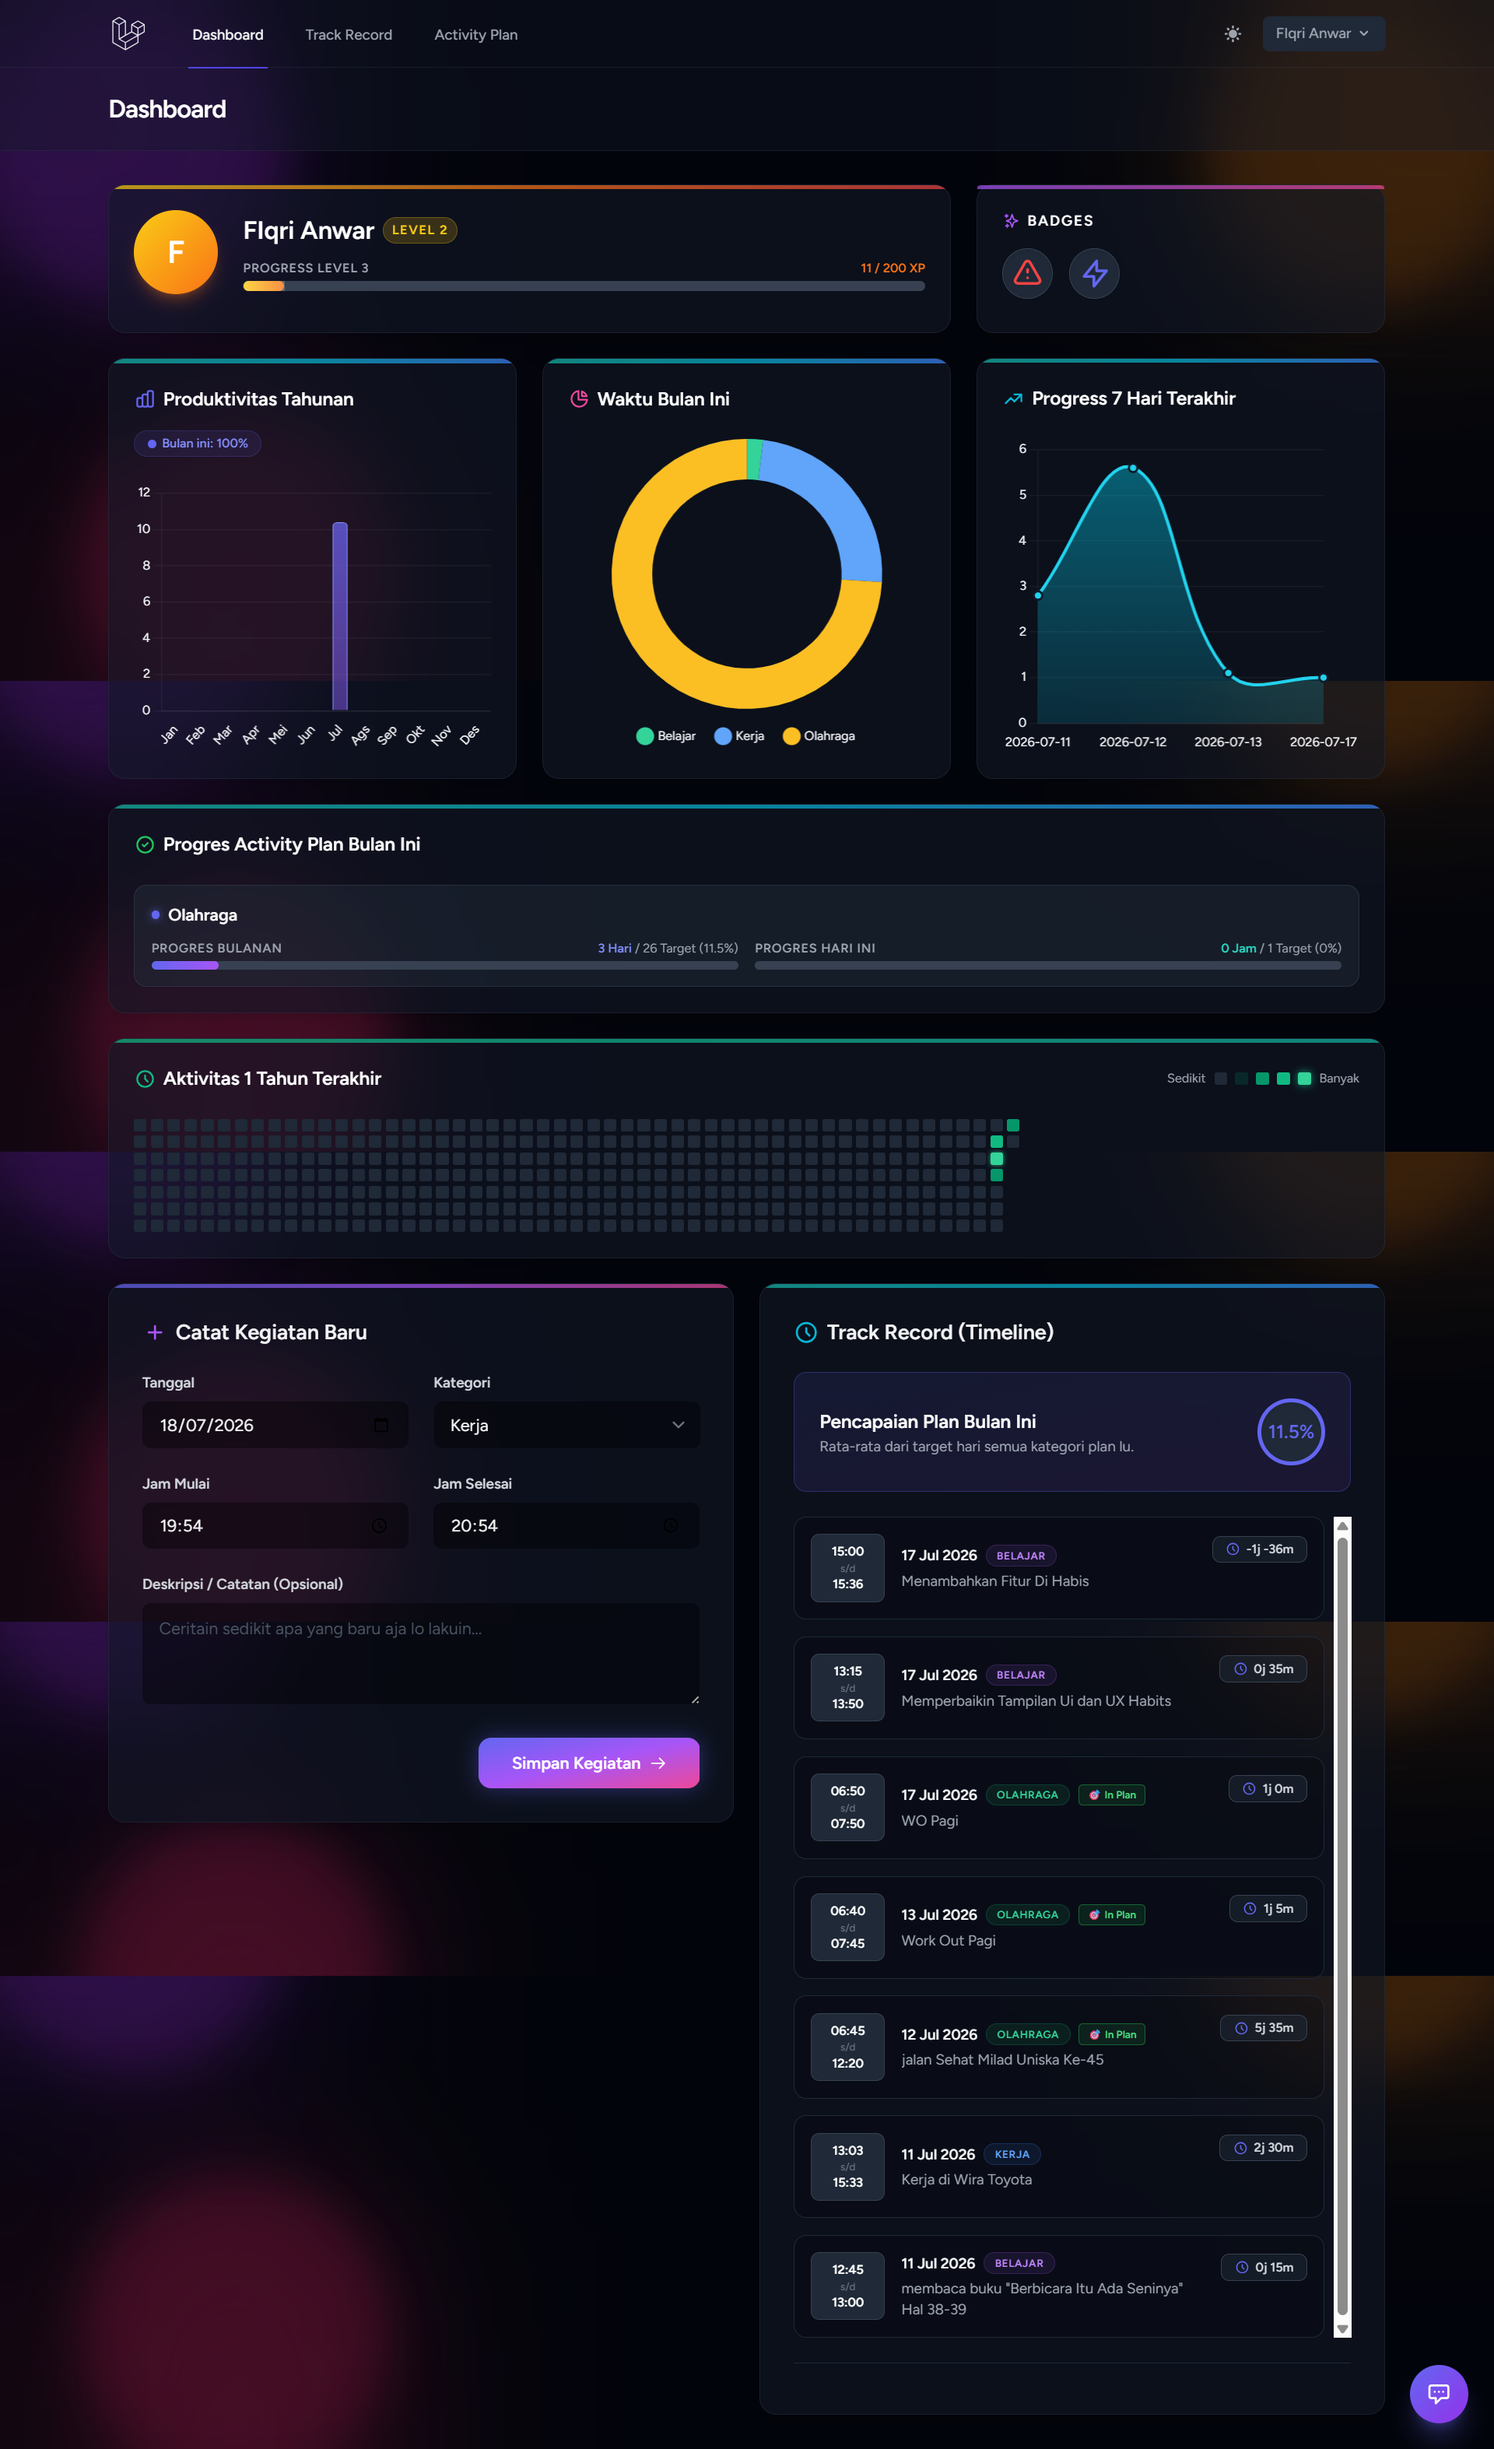
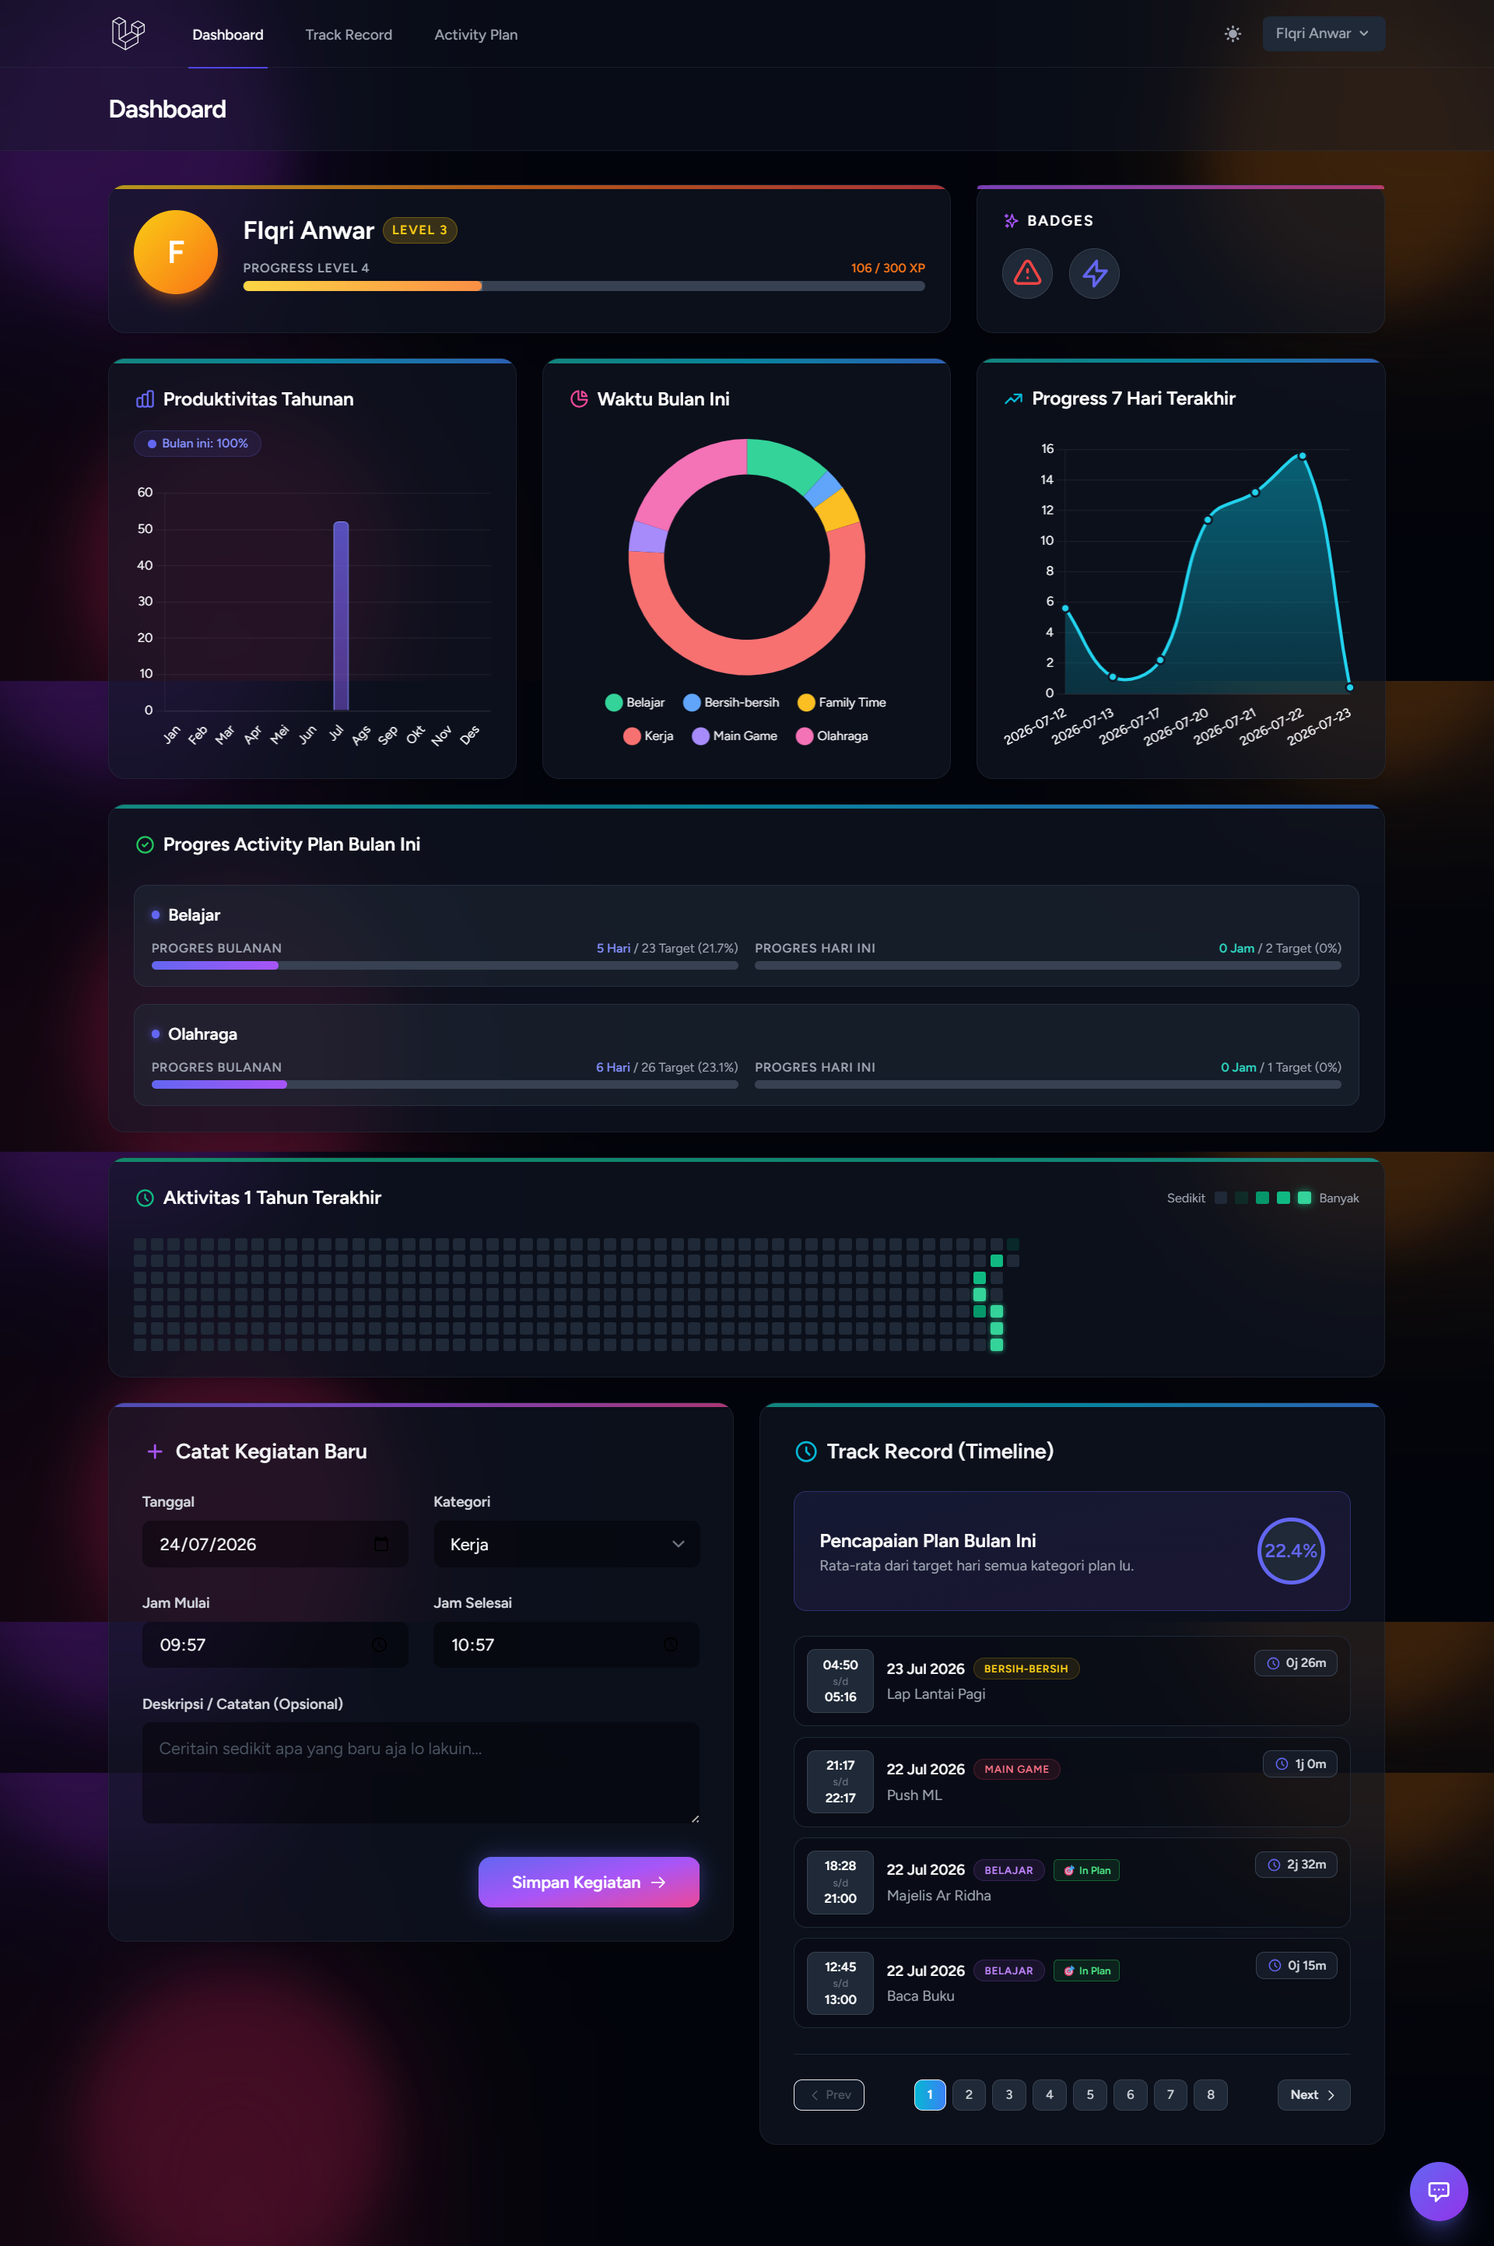
feat: replace timeline scrollbar with pagination buttons (1, 2, etc.) and update dashboard screenshot

diff --git a/resources/views/livewire/custom-pagination.blade.php b/resources/views/livewire/custom-pagination.blade.php
@@ -1,0 +1,58 @@
+@if ($paginator->hasPages())
+    <nav role="navigation" aria-label="Pagination Navigation" class="flex items-center justify-between gap-2 pt-2">
+        <!-- Previous Page Link -->
+        <div>
+            @if ($paginator->onFirstPage())
+                <span class="inline-flex items-center gap-1 px-3 py-1.5 rounded-lg text-xs font-semibold bg-gray-100/50 dark:bg-gray-800/40 text-gray-400 dark:text-gray-600 cursor-not-allowed border border-gray-200/50 dark:border-gray-800/50 opacity-60">
+                    <svg class="w-3.5 h-3.5" fill="none" stroke="currentColor" viewBox="0 0 24 24"><path stroke-linecap="round" stroke-linejoin="round" stroke-width="2" d="M15 19l-7-7 7-7"></path></svg>
+                    Prev
+                </span>
+            @else
+                <button type="button" wire:click="previousPage('{{ $paginator->getPageName() }}')" wire:loading.attr="disabled" class="inline-flex items-center gap-1 px-3 py-1.5 rounded-lg text-xs font-semibold bg-white dark:bg-gray-800 text-gray-700 dark:text-gray-200 hover:bg-gray-100 dark:hover:bg-gray-700 border border-gray-200 dark:border-gray-700 shadow-sm transition-all duration-200 hover:scale-105 active:scale-95">
+                    <svg class="w-3.5 h-3.5" fill="none" stroke="currentColor" viewBox="0 0 24 24"><path stroke-linecap="round" stroke-linejoin="round" stroke-width="2" d="M15 19l-7-7 7-7"></path></svg>
+                    Prev
+                </button>
+            @endif
+        </div>
+
+        <!-- Page Numbers (1, 2, 3...) -->
+        <div class="flex items-center gap-1.5 flex-wrap justify-center">
+            @foreach ($elements as $element)
+                {{-- "Three Dots" Separator --}}
+                @if (is_string($element))
+                    <span class="px-2 py-1 text-xs text-gray-400 dark:text-gray-500 font-medium">{{ $element }}</span>
+                @endif
+
+                {{-- Array Of Links --}}
+                @if (is_array($element))
+                    @foreach ($element as $page => $url)
+                        @if ($page == $paginator->currentPage())
+                            <span class="px-3 py-1.5 rounded-lg text-xs font-bold bg-gradient-to-r from-cyan-500 to-blue-500 text-white shadow-md shadow-cyan-500/20 border border-cyan-400/30">
+                                {{ $page }}
+                            </span>
+                        @else
+                            <button type="button" wire:click="gotoPage({{ $page }}, '{{ $paginator->getPageName() }}')" wire:loading.attr="disabled" class="px-3 py-1.5 rounded-lg text-xs font-medium bg-white dark:bg-gray-800 text-gray-600 dark:text-gray-300 hover:bg-gray-100 dark:hover:bg-gray-700 border border-gray-200 dark:border-gray-700 transition-all duration-200 hover:scale-105 active:scale-95">
+                                {{ $page }}
+                            </button>
+                        @endif
+                    @endforeach
+                @endif
+            @endforeach
+        </div>
+
+        <!-- Next Page Link -->
+        <div>
+            @if ($paginator->hasMorePages())
+                <button type="button" wire:click="nextPage('{{ $paginator->getPageName() }}')" wire:loading.attr="disabled" class="inline-flex items-center gap-1 px-3 py-1.5 rounded-lg text-xs font-semibold bg-white dark:bg-gray-800 text-gray-700 dark:text-gray-200 hover:bg-gray-100 dark:hover:bg-gray-700 border border-gray-200 dark:border-gray-700 shadow-sm transition-all duration-200 hover:scale-105 active:scale-95">
+                    Next
+                    <svg class="w-3.5 h-3.5" fill="none" stroke="currentColor" viewBox="0 0 24 24"><path stroke-linecap="round" stroke-linejoin="round" stroke-width="2" d="M9 5l7 7-7 7"></path></svg>
+                </button>
+            @else
+                <span class="inline-flex items-center gap-1 px-3 py-1.5 rounded-lg text-xs font-semibold bg-gray-100/50 dark:bg-gray-800/40 text-gray-400 dark:text-gray-600 cursor-not-allowed border border-gray-200/50 dark:border-gray-800/50 opacity-60">
+                    Next
+                    <svg class="w-3.5 h-3.5" fill="none" stroke="currentColor" viewBox="0 0 24 24"><path stroke-linecap="round" stroke-linejoin="round" stroke-width="2" d="M9 5l7 7-7 7"></path></svg>
+                </span>
+            @endif
+        </div>
+    </nav>
+@endif

diff --git a/resources/views/livewire/activity-history.blade.php b/resources/views/livewire/activity-history.blade.php
@@ -21,7 +21,7 @@
             </div>
             @endif
             
-            <div class="flex-1 overflow-y-auto pr-2 space-y-4 scrollbar-thin scrollbar-thumb-gray-300 dark:scrollbar-thumb-gray-600 scrollbar-track-transparent">
+            <div class="flex-1 space-y-2.5">
                 @forelse($activities as $activity)
                 @if($editingId === $activity->id)
                     <!-- Edit Form -->
@@ -61,17 +61,17 @@
                     </div>
                 @else
                 <!-- Timeline Card -->
-                <div class="relative group/card bg-gray-50/50 dark:bg-black/20 border border-gray-100 dark:border-gray-800 rounded-xl p-4 transition-all duration-300 hover:shadow-[0_0_15px_rgba(56,189,248,0.2)] hover:border-cyan-500/30 hover:-translate-y-0.5">
+                <div class="relative group/card bg-gray-50/50 dark:bg-black/20 border border-gray-100 dark:border-gray-800 rounded-xl p-3 transition-all duration-300 hover:shadow-[0_0_15px_rgba(56,189,248,0.2)] hover:border-cyan-500/30 hover:-translate-y-0.5">
                     
                     <!-- Glow effect behind card on hover -->
                     <div class="absolute -inset-0.5 bg-gradient-to-r from-cyan-500 to-blue-500 rounded-xl blur opacity-0 group-hover/card:opacity-10 transition duration-500 z-0"></div>
 
-                    <div class="relative z-10 flex flex-col sm:flex-row sm:items-center justify-between gap-4">
+                    <div class="relative z-10 flex flex-col sm:flex-row sm:items-center justify-between gap-3">
                         
                         <!-- Left Side: Time & Category -->
-                        <div class="flex items-center gap-4">
+                        <div class="flex items-center gap-3">
                             <!-- Time Badge -->
-                            <div class="flex flex-col items-center justify-center bg-white dark:bg-gray-800 px-3 py-2 rounded-lg border border-gray-200 dark:border-gray-700 shadow-sm min-w-[70px]">
+                            <div class="flex flex-col items-center justify-center bg-white dark:bg-gray-800 px-2.5 py-1.5 rounded-lg border border-gray-200 dark:border-gray-700 shadow-sm min-w-[64px]">
                                 <span class="text-xs font-bold text-gray-900 dark:text-white">{{ \Carbon\Carbon::parse($activity->start_time)->format('H:i') }}</span>
                                 <span class="text-[10px] text-gray-500 font-medium">s/d</span>
                                 <span class="text-xs font-bold text-gray-900 dark:text-white">{{ \Carbon\Carbon::parse($activity->end_time)->format('H:i') }}</span>
@@ -115,8 +115,8 @@
                         </div>
 
                         <!-- Right Side: Duration & Actions -->
-                        <div class="flex-shrink-0 flex flex-col items-end gap-2 text-right">
-                            <span class="inline-flex items-center gap-1.5 px-3 py-1 bg-white/50 dark:bg-gray-800/50 rounded-lg text-xs font-semibold text-gray-700 dark:text-gray-300 border border-gray-200 dark:border-gray-700">
+                        <div class="flex-shrink-0 flex flex-col items-end gap-1.5 text-right">
+                            <span class="inline-flex items-center gap-1.5 px-2.5 py-1 bg-white/50 dark:bg-gray-800/50 rounded-lg text-xs font-semibold text-gray-700 dark:text-gray-300 border border-gray-200 dark:border-gray-700">
                                 <svg class="w-3.5 h-3.5 text-indigo-500" fill="none" stroke="currentColor" viewBox="0 0 24 24"><path stroke-linecap="round" stroke-linejoin="round" stroke-width="2" d="M12 8v4l3 3m6-3a9 9 0 11-18 0 9 9 0 0118 0z"></path></svg>
                                 {{ floor($activity->duration_minutes / 60) }}j {{ $activity->duration_minutes % 60 }}m
                             </span>
@@ -146,7 +146,7 @@
             </div>
             
             <div class="mt-6 pt-4 border-t border-gray-100 dark:border-gray-800">
-                {{ $activities->links(data: ['scrollTo' => false]) }}
+                {{ $activities->links('livewire.custom-pagination', ['scrollTo' => false]) }}
             </div>
         </div>
     </div>

diff --git a/resources/views/dashboard.blade.php b/resources/views/dashboard.blade.php
@@ -7,7 +7,7 @@
         </h2>
     </x-slot>
 
-    <div class="py-8 z-10 relative">
+    <div class="pt-8 pb-24 z-10 relative">
         <div class="max-w-7xl mx-auto sm:px-6 lg:px-8 space-y-6">
             
             <!-- Top Section: Stats & Charts -->
@@ -16,7 +16,7 @@
             </div>
 
             <!-- Bottom Section: Form & History -->
-            <div class="grid grid-cols-1 xl:grid-cols-2 gap-6">
+            <div class="grid grid-cols-1 lg:grid-cols-2 gap-6 items-start">
                 
                 <!-- Left: Form -->
                 <div class="flex flex-col h-full animate-fade-in-up opacity-0" style="animation-delay: 0.2s;">

diff --git a/resources/views/livewire/activity-form.blade.php b/resources/views/livewire/activity-form.blade.php
@@ -1,4 +1,4 @@
-<div class="bg-white/70 dark:bg-gray-900/60 backdrop-blur-xl border border-white/20 dark:border-gray-700/30 shadow-lg rounded-2xl mb-6 relative overflow-hidden group">
+<div class="bg-white/70 dark:bg-gray-900/60 backdrop-blur-xl border border-white/20 dark:border-gray-700/30 shadow-lg rounded-2xl relative overflow-hidden group">
     <!-- Subtle gradient border top -->
     <div class="absolute top-0 left-0 w-full h-1 bg-gradient-to-r from-indigo-500 via-purple-500 to-pink-500 opacity-70"></div>
 

diff --git a/app/Livewire/ActivityHistory.php b/app/Livewire/ActivityHistory.php
@@ -87,7 +87,7 @@ class ActivityHistory extends Component
         $activities = Auth::user()->activities()
             ->orderBy('date', 'desc')
             ->orderBy('start_time', 'desc')
-            ->paginate(15);
+            ->paginate(4);
 
         // Fetch all category targets for the user
         $categoryTargets = Auth::user()->categoryTargets()->get();
